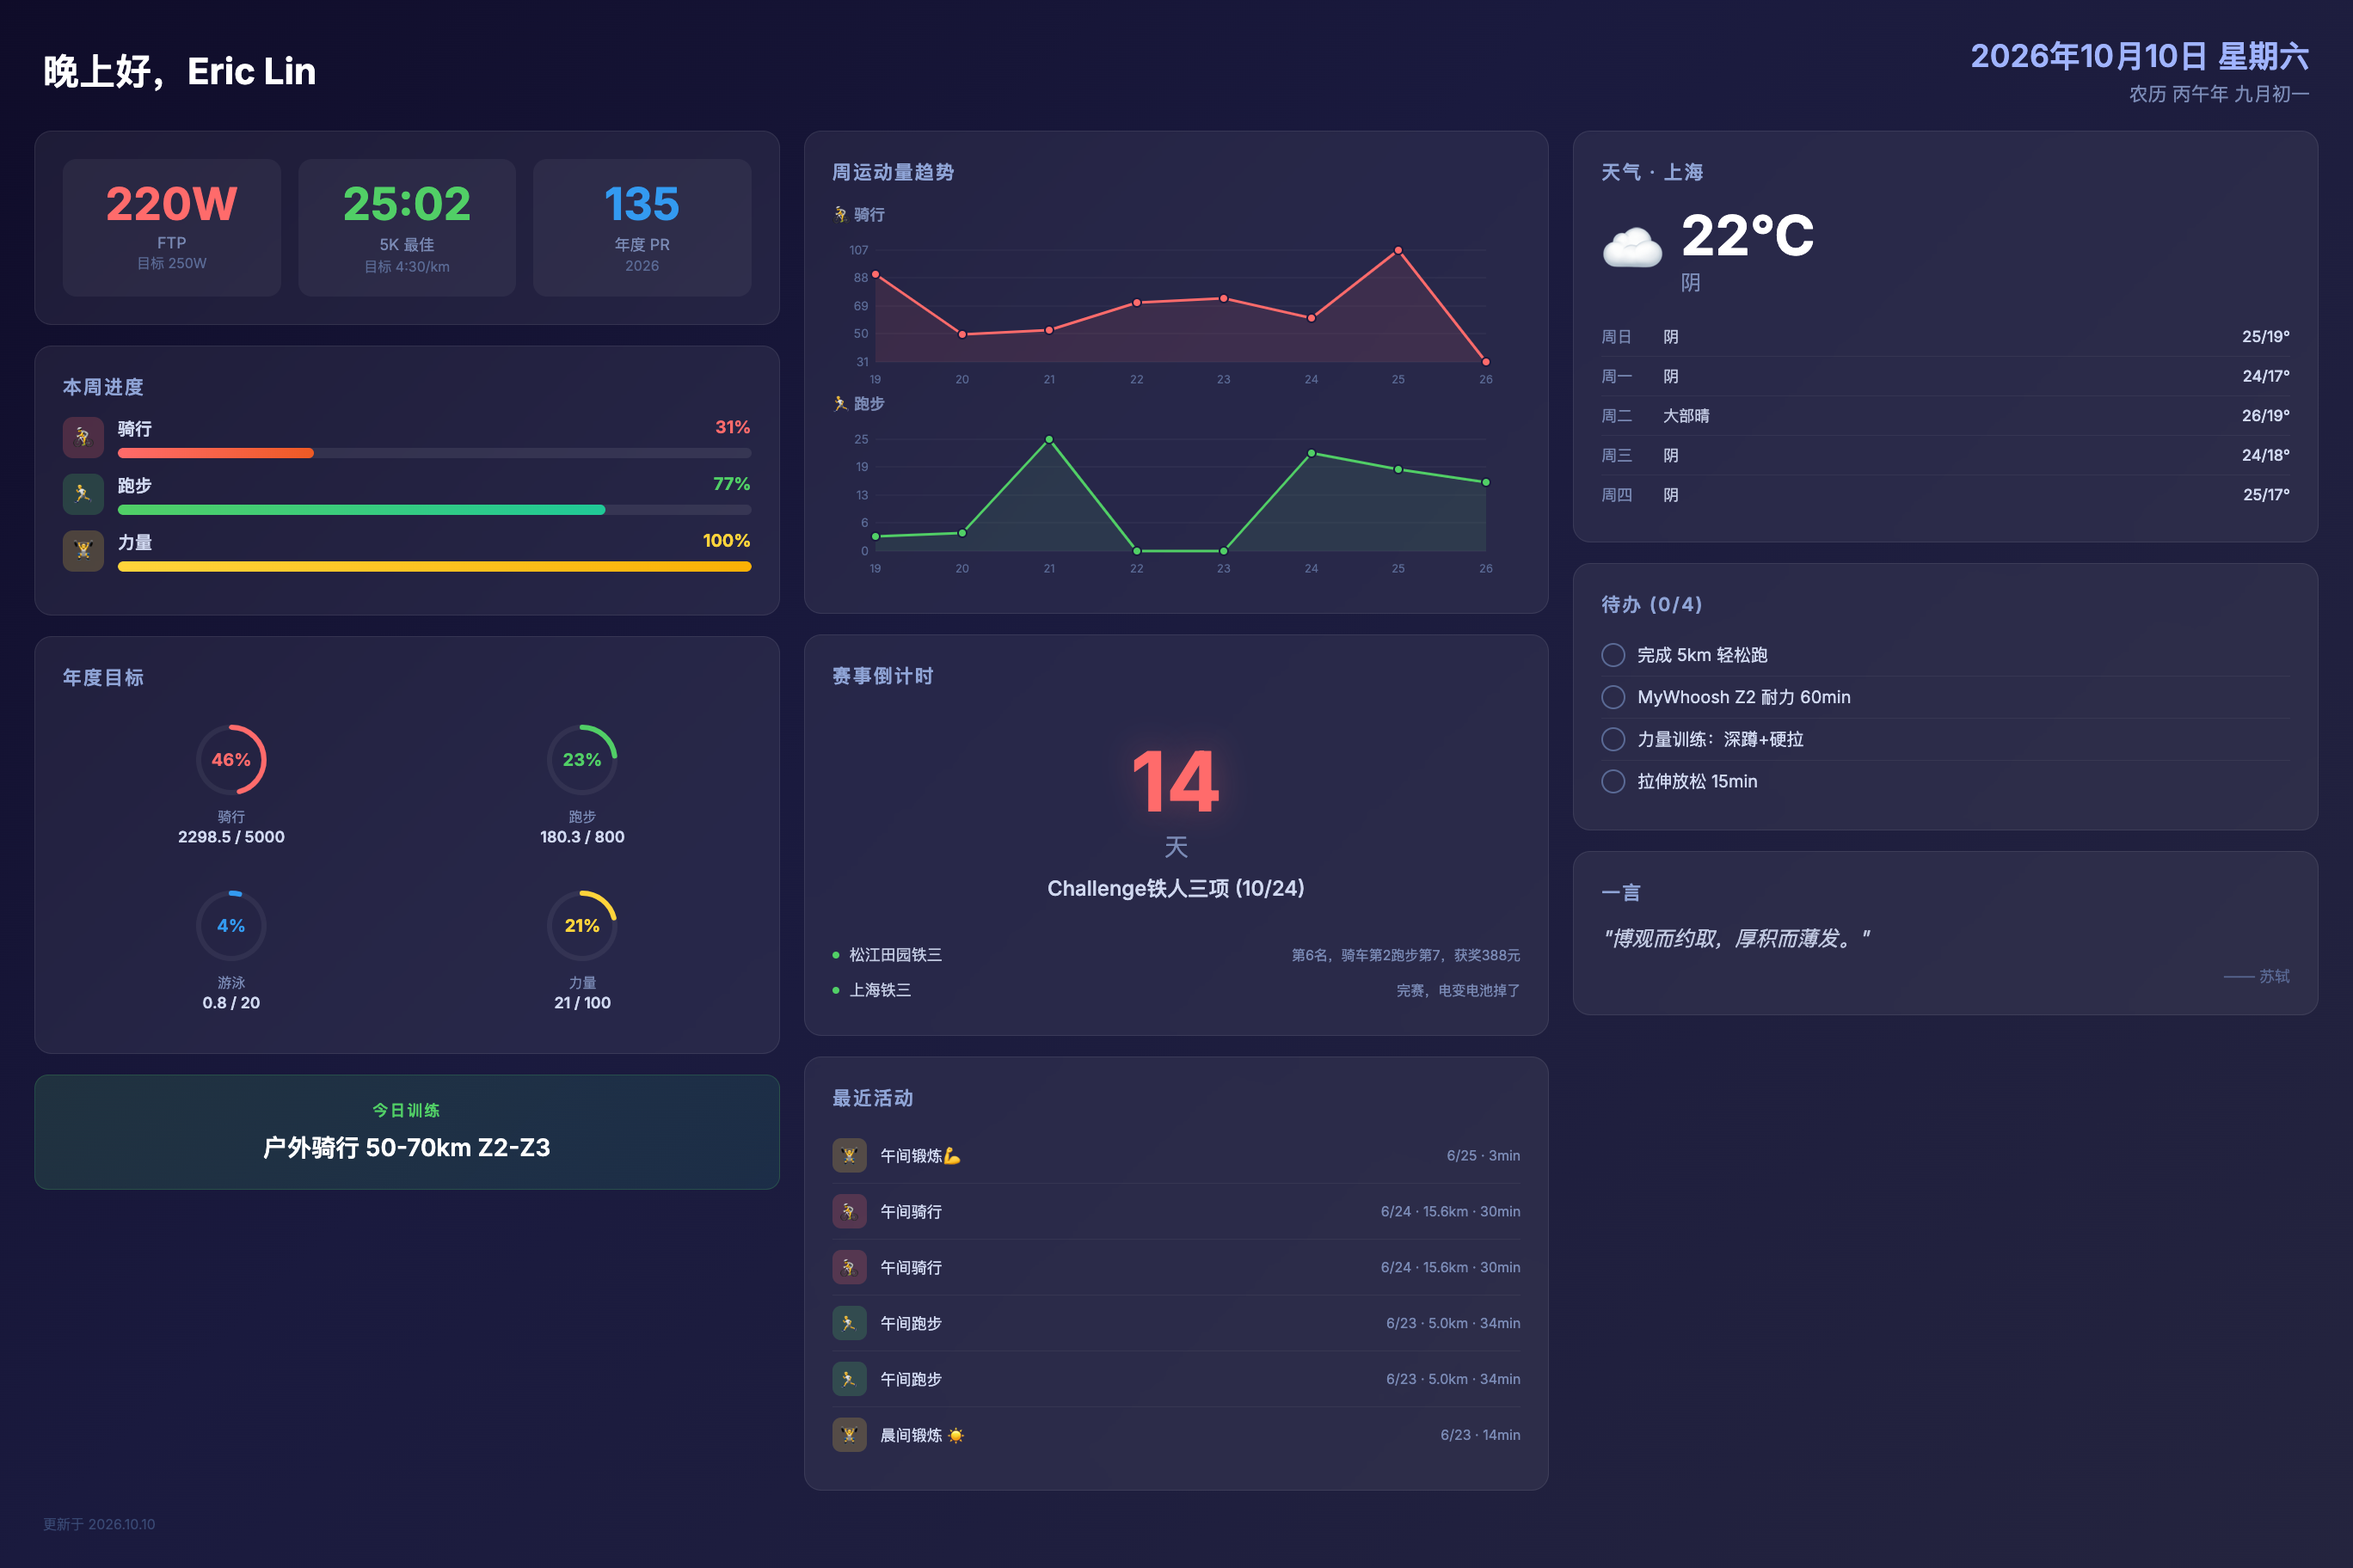
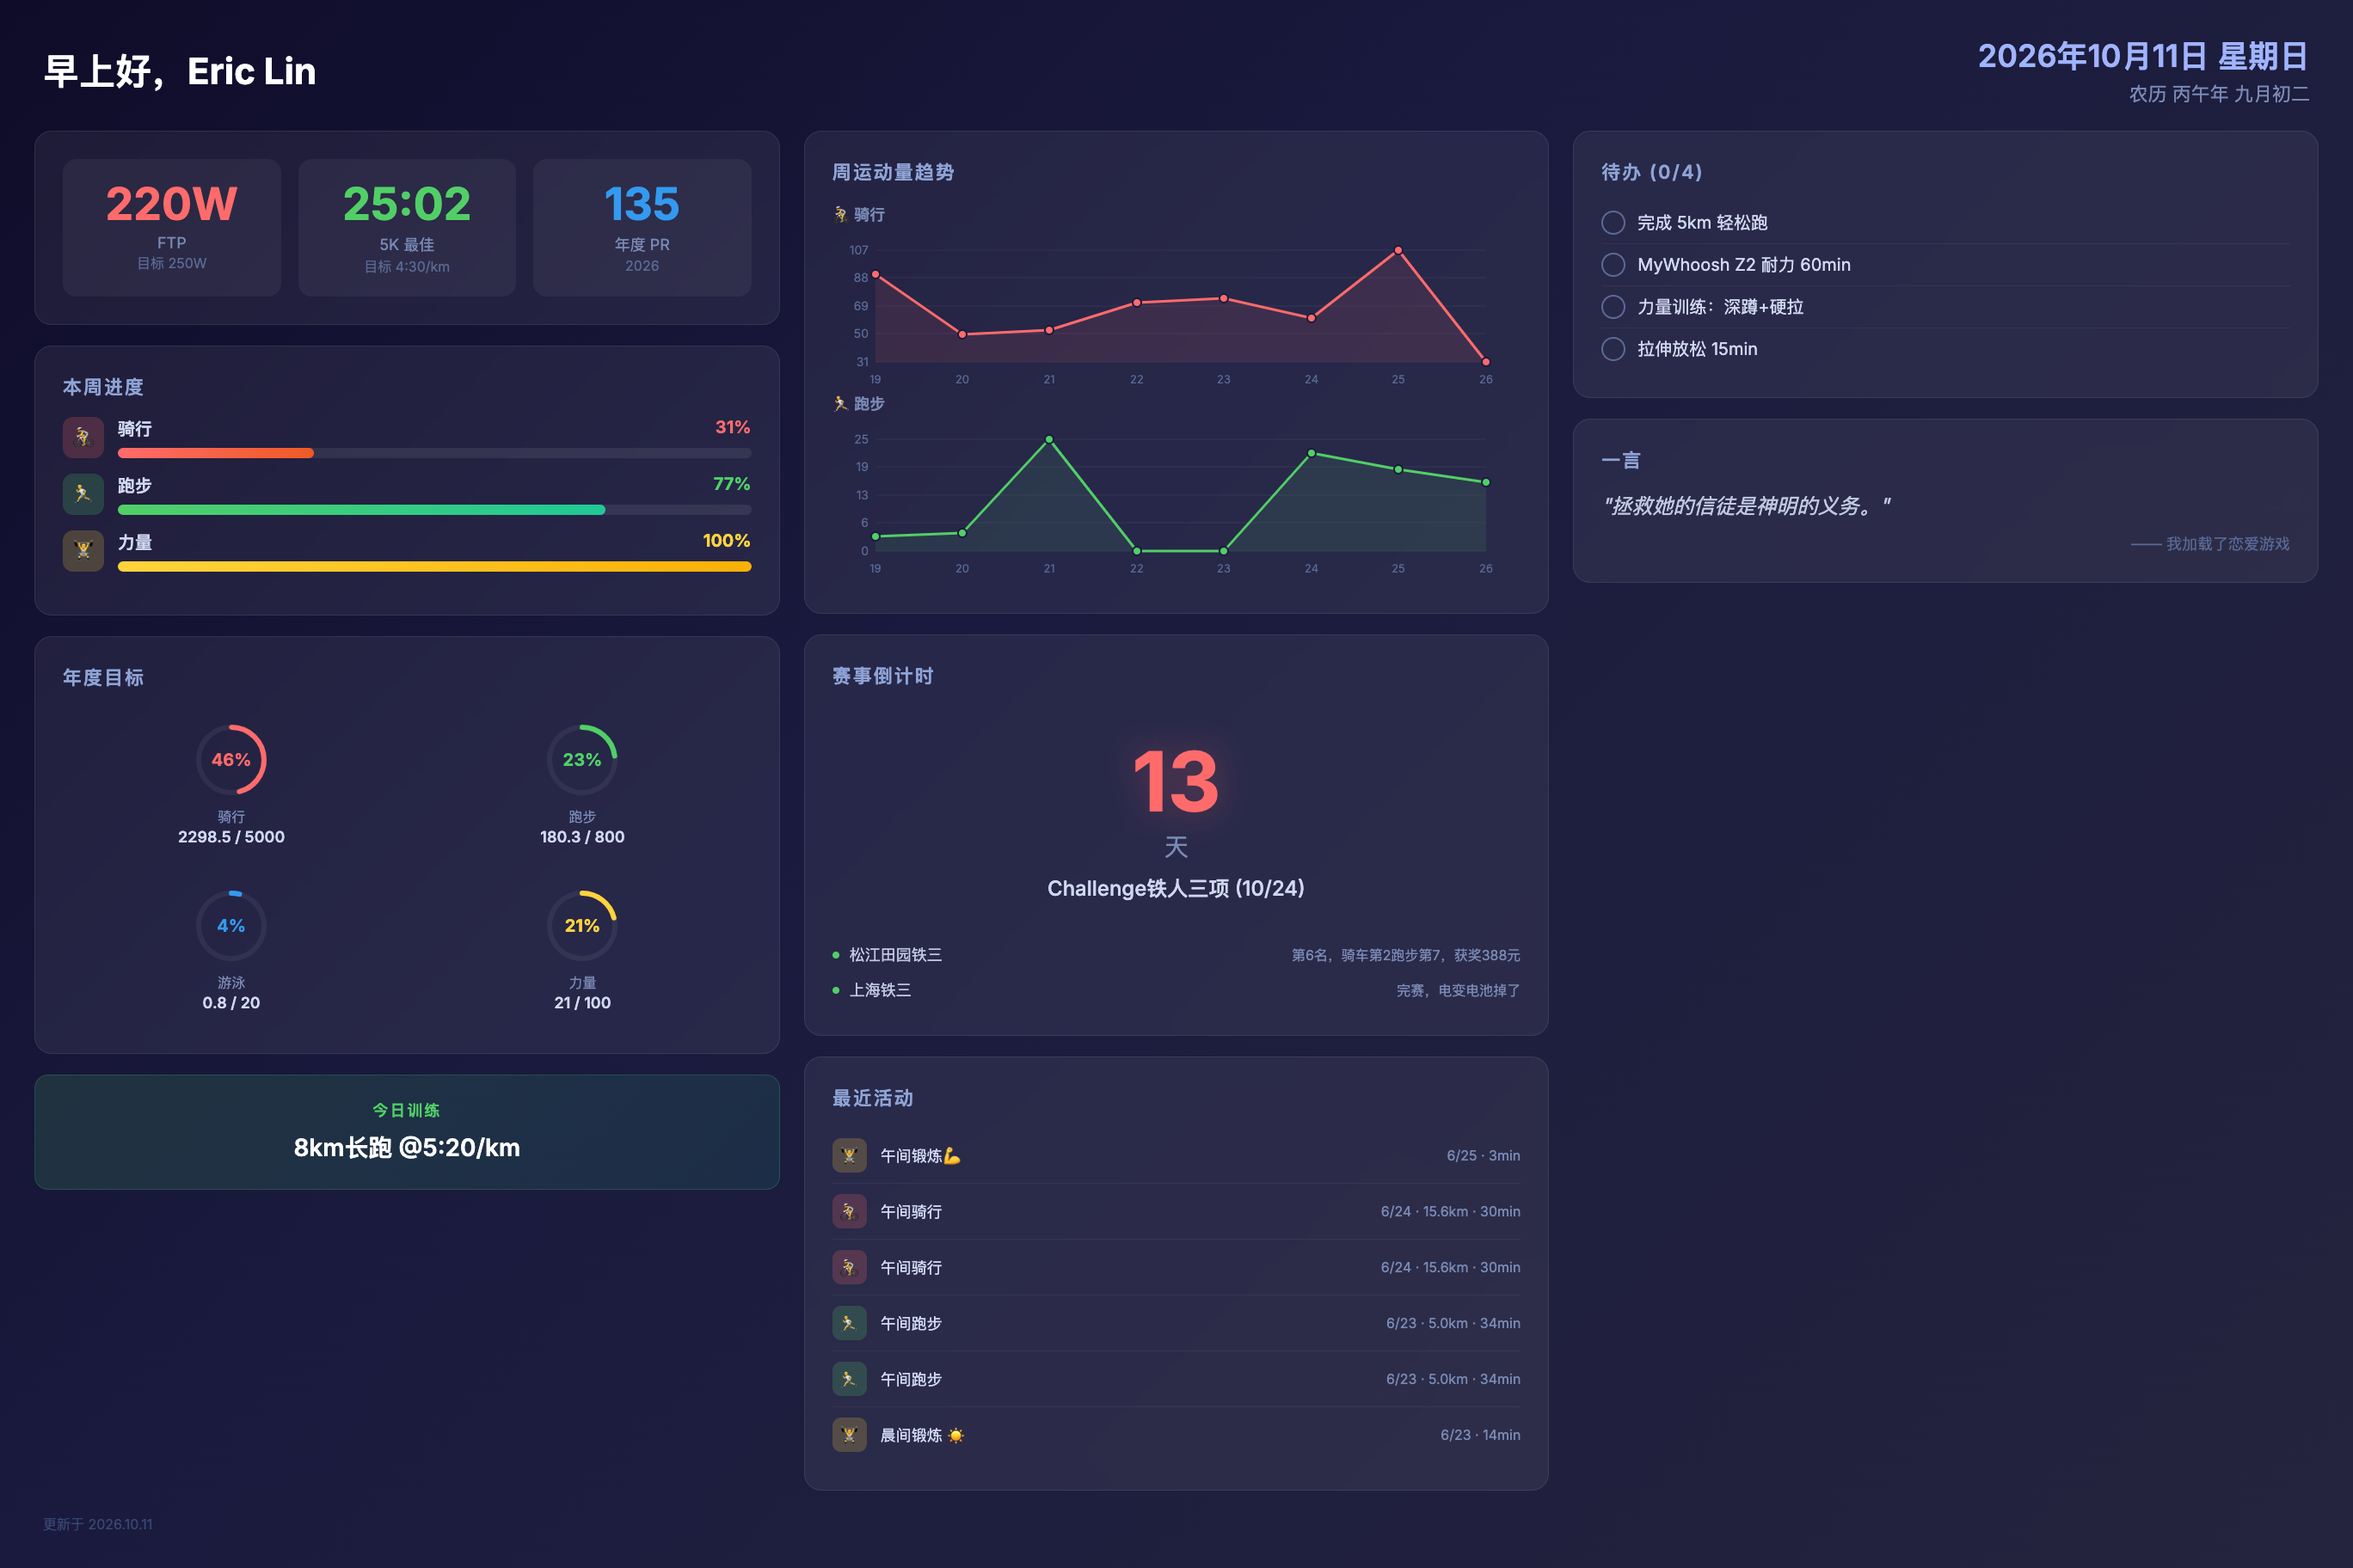
deploy: 2026-10-11-07:00

diff --git a/screensaver.html b/screensaver.html
@@ -490,13 +490,13 @@ html, body {
 <!-- ===== TOP BAR ===== -->
 <div class="top-bar">
   <div>
-    <div class="greeting">晚上好，Eric Lin</div>
+    <div class="greeting">早上好，Eric Lin</div>
     
   </div>
   <div class="date-info">
-    <div class="solar-date">2026年10月10日 星期六</div>
+    <div class="solar-date">2026年10月11日 星期日</div>
     
-    <div class="lunar-date">农历 丙午年 九月初一</div>
+    <div class="lunar-date">农历 丙午年 九月初二</div>
     
   </div>
 </div>
@@ -638,7 +638,7 @@ html, body {
   
   <div class="ai-today-card">
     <div class="ai-today-label">今日训练</div>
-    <div class="ai-today-text">户外骑行 50-70km Z2-Z3</div>
+    <div class="ai-today-text">8km长跑 @5:20/km</div>
   </div>
   
 
@@ -732,7 +732,7 @@ html, body {
   <div class="card">
     <div class="card-title">赛事倒计时</div>
     <div class="race-countdown">
-      <div class="countdown-number">14</div>
+      <div class="countdown-number">13</div>
       <div class="countdown-unit">天</div>
       <div class="countdown-name">Challenge铁人三项 (10/24)</div>
     </div>
@@ -805,56 +805,6 @@ html, body {
 
   <!-- Weather -->
   
-  <div class="card">
-    <div class="card-title">天气 · 上海</div>
-    <div class="weather-current">
-      <div class="weather-icon-big">☁</div>
-      <div>
-        <div class="weather-temp-big">22°C</div>
-        <div class="weather-desc">阴</div>
-      </div>
-    </div>
-    
-    
-    <div class="forecast-row">
-      <div class="forecast-day">周日</div>
-      <div class="forecast-desc">阴</div>
-      <div class="forecast-precip"></div>
-      <div class="forecast-range">25/19°</div>
-    </div>
-    
-    <div class="forecast-row">
-      <div class="forecast-day">周一</div>
-      <div class="forecast-desc">阴</div>
-      <div class="forecast-precip"></div>
-      <div class="forecast-range">24/17°</div>
-    </div>
-    
-    <div class="forecast-row">
-      <div class="forecast-day">周二</div>
-      <div class="forecast-desc">大部晴</div>
-      <div class="forecast-precip"></div>
-      <div class="forecast-range">26/19°</div>
-    </div>
-    
-    <div class="forecast-row">
-      <div class="forecast-day">周三</div>
-      <div class="forecast-desc">阴</div>
-      <div class="forecast-precip"></div>
-      <div class="forecast-range">24/18°</div>
-    </div>
-    
-    <div class="forecast-row">
-      <div class="forecast-day">周四</div>
-      <div class="forecast-desc">阴</div>
-      <div class="forecast-precip"></div>
-      <div class="forecast-range">25/17°</div>
-    </div>
-    
-    
-    
-  </div>
-  
 
   <!-- Todos -->
   
@@ -900,9 +850,9 @@ html, body {
   
   <div class="card">
     <div class="card-title">一言</div>
-    <div class="quote-text">"博观而约取，厚积而薄发。"</div>
+    <div class="quote-text">"拯救她的信徒是神明的义务。"</div>
     
-    <div class="quote-from">—— 苏轼</div>
+    <div class="quote-from">—— 我加载了恋爱游戏</div>
     
   </div>
   
@@ -911,7 +861,7 @@ html, body {
 
 <!-- ===== BOTTOM BAR ===== -->
 <div class="bottom-bar">
-  <div class="update-time">更新于 2026.10.10</div>
+  <div class="update-time">更新于 2026.10.11</div>
 </div>
 
 </div>

diff --git a/life.html b/life.html
@@ -89,7 +89,7 @@ html, body {
 <table class="header-table">
   <tr>
     <td class="header-left">生活</td>
-    <td class="header-right">2026.10.10</td>
+    <td class="header-right">2026.10.11</td>
   </tr>
 </table>
 
@@ -133,82 +133,16 @@ html, body {
 
 <!-- ===== 天气 ===== -->
 
-<div class="box">
-  <p class="section-title">☀ 天气 · 上海</p>
-  <table class="weather-table">
-    <tr>
-      <td class="weather-icon">~</td>
-      <td class="weather-temp">22°C</td>
-      <td class="weather-desc">阴</td>
-    </tr>
-  </table>
-  
-  <table class="forecast-table">
-    
-    <tr>
-      <td class="forecast-day">周日</td>
-      <td class="forecast-icon">~</td>
-      <td>阴</td>
-      <td class="forecast-range">25/19°C</td>
-    </tr>
-    
-    <tr>
-      <td class="forecast-day">周一</td>
-      <td class="forecast-icon">~</td>
-      <td>阴</td>
-      <td class="forecast-range">24/17°C</td>
-    </tr>
-    
-    <tr>
-      <td class="forecast-day">周二</td>
-      <td class="forecast-icon">*</td>
-      <td>大部晴</td>
-      <td class="forecast-range">26/19°C</td>
-    </tr>
-    
-    <tr>
-      <td class="forecast-day">周三</td>
-      <td class="forecast-icon">~</td>
-      <td>阴</td>
-      <td class="forecast-range">24/18°C</td>
-    </tr>
-    
-    <tr>
-      <td class="forecast-day">周四</td>
-      <td class="forecast-icon">~</td>
-      <td>阴</td>
-      <td class="forecast-range">25/17°C</td>
-    </tr>
-    
-    <tr>
-      <td class="forecast-day">周五</td>
-      <td class="forecast-icon">~</td>
-      <td>阴</td>
-      <td class="forecast-range">26/20°C</td>
-    </tr>
-    
-    <tr>
-      <td class="forecast-day">周六</td>
-      <td class="forecast-icon">.</td>
-      <td>小毛雨</td>
-      <td class="forecast-range">26/22°C</td>
-    </tr>
-    
-  </table>
-  
-  
-</div>
-
 
 <!-- ===== 今日 ===== -->
 <div class="box">
   <p class="section-title">📅 今日</p>
   <table class="data-table">
     <tr>
-      <td>2026年10月10日 星期五</td>
+      <td>2026年10月11日 星期六</td>
     </tr>
     <tr>
-      <td>农历丙午年 九月初一</td>
+      <td>农历丙午年 九月初二</td>
     </tr>
   </table>
 </div>
@@ -259,9 +193,9 @@ html, body {
 
 <div class="box">
   <p class="section-title">💬 一言</p>
-  <p class="quote-text">博观而约取，厚积而薄发。</p>
+  <p class="quote-text">拯救她的信徒是神明的义务。</p>
   
-  <p class="quote-from">—— 苏轼</p>
+  <p class="quote-from">—— 我加载了恋爱游戏</p>
   
 </div>
 

diff --git a/index.html b/index.html
@@ -74,7 +74,7 @@ html, body {
 <table class="header-table">
   <tr>
     <td class="header-left">Eric Lin · 运动</td>
-    <td class="header-right">2026.10.10</td>
+    <td class="header-right">2026.10.11</td>
   </tr>
 </table>
 
@@ -225,17 +225,10 @@ html, body {
 <div class="ai-plan">
   <div class="ai-plan-title">AI 训练建议</div>
   
-  <div class="ai-today">今日: 户外骑行 60km Z2-Z3</div>
+  <div class="ai-today">今日: 长跑 8km @5:20/km</div>
   
   
   <table class="ai-weekly">
-    
-    <tr>
-      <td class="day">周六</td>
-      
-      <td>户外骑行 60km Z2-Z3</td>
-      
-    </tr>
     
     <tr>
       <td class="day">周日</td>
@@ -279,6 +272,13 @@ html, body {
       
     </tr>
     
+    <tr>
+      <td class="day">周六</td>
+      
+      <td>户外骑行 60km Z2-Z3</td>
+      
+    </tr>
+    
   </table>
   
   
@@ -293,7 +293,7 @@ html, body {
   <p class="section-title">即将到来</p>
   
   <div class="countdown-box">
-    <div class="countdown-days">14</div>
+    <div class="countdown-days">13</div>
     <div class="countdown-label">距 Challenge铁人三项 (10/24)</div>
   </div>
   

diff --git a/work.html b/work.html
@@ -89,7 +89,7 @@ html, body {
 <table class="header-table">
   <tr>
     <td class="header-left">工作</td>
-    <td class="header-right">2026.10.10</td>
+    <td class="header-right">2026.10.11</td>
   </tr>
 </table>
 
